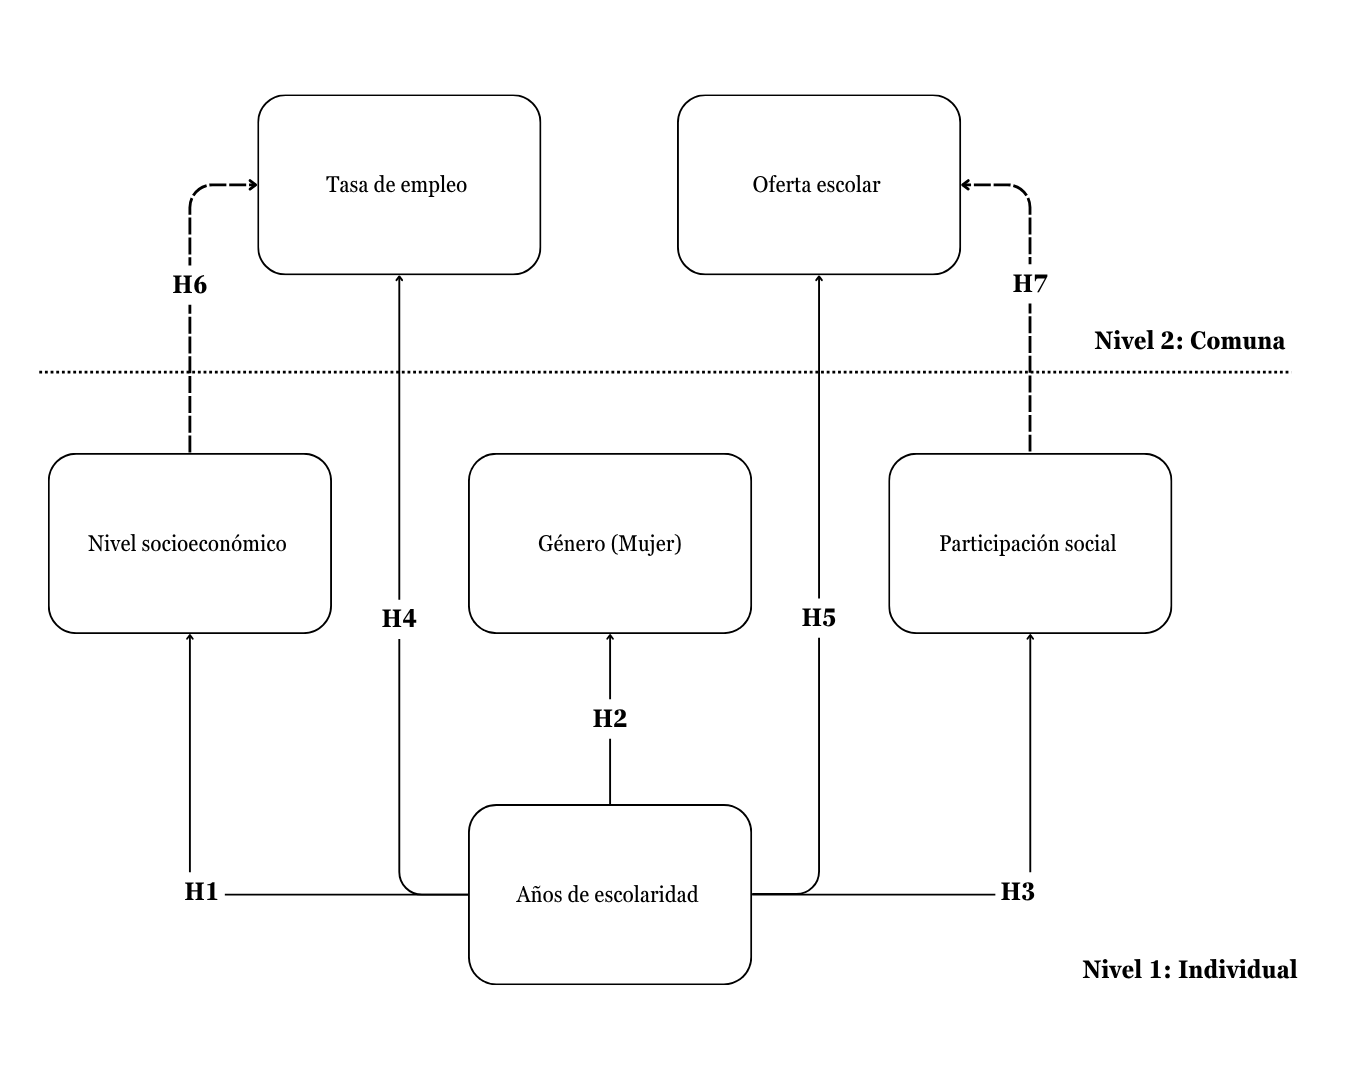
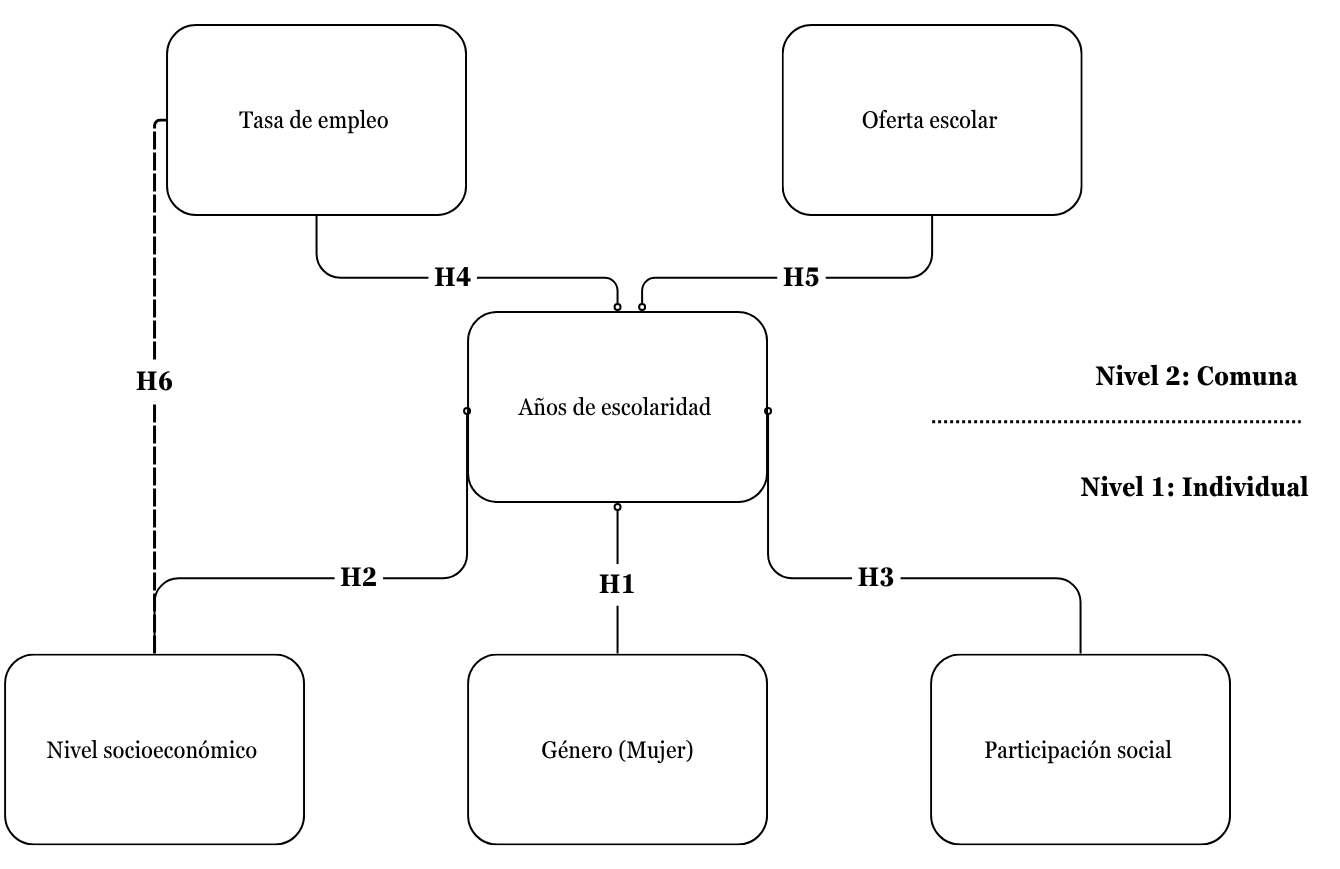
Avance presentacion

diff --git a/presentacion-template.html b/presentacion-template.html
@@ -166,29 +166,53 @@
 <section id="introducción" class="title-slide slide level1 center">
 <h1>Introducción</h1>
 <ul>
-<li class="fragment"><p>[problema, objeto de estudio] Rendimiento en matemáticas decreciente y aumentan brechas por género</p></li>
-<li class="fragment"><p>[factores asociados L1] Nivel socioeconómico y género de estudiantes</p></li>
-<li class="fragment"><p>[factores asociados L2] Nivel socioeconómico de la escuela y composición de género de las salas de clases.</p></li>
+<li class="fragment"><p><strong>Problema, objeto de estudio:</strong></p>
+<div class="line-block">La desigualdad educativa persiste como una de las principales barreras para la movilidad social en Chile, especialmente en la Región Metropolitana de Santiago. A pesar de la expansión del acceso educativo, las diferencias en años de escolaridad continúan reproduciendo desigualdades estructurales entre grupos sociales. Este estudio busca comprender cómo estas diferencias se explican a partir de la interacción entre recursos familiares y condiciones territoriales en el Gran Santiago.</div></li>
 </ul>
 </section>
-<section id="section-1" class="slide level2" data-background-color="#5f5758">
+<section class="slide level2">
+
+<ul>
+<li class="fragment"><p><strong>Factores asociados L1:</strong> Nivel socioeconómico del hogar, Género y Participación social familiar</p>
+<blockquote>
+<p>Estos factores se entienden como recursos o desventajas que configuran las trayectorias escolares desde el origen social, afectando tanto el acceso como la permanencia y el logro educativo.</p>
+</blockquote></li>
+<li class="fragment"><p><strong>Factores asociados L2:</strong> Tasa de empleo comunal y Oferta escolar comunal (densidad de establecimientos)</p>
+<blockquote>
+<p>Ambas variables expresan las condiciones estructurales del territorio, influyendo en las oportunidades educativas disponibles. Se incorporan para analizar cómo el entorno puede amplificar o mitigar las desigualdades preexistentes, más allá de las características individuales.</p>
+</blockquote></li>
+</ul>
+</section>
+<section id="section-1" class="slide level2" data-background-color="#FF0000">
 <h2></h2>
 <div class="center middle">
-<p><span style="font-size: 250%;">¿En qué medida el nivel socioeconómico y el género a nivel individual y de escuela afectan el rendimiento en matemática?</span></p>
+<p><span style="font-size: 230%;">¿En qué medida los distintos factores de socialización —tanto familiares como territoriales— influyen en los años de escolaridad de los habitantes del Gran Santiago?</span></p>
 </div>
 </section></section>
+<section>
 <section id="hipótesis" class="title-slide slide level1 center">
 <h1>Hipótesis:</h1>
-<p>Nivel 1:</p>
-<p><span class="math inline">\(H_1\)</span>:</p>
-<p><span class="math inline">\(H_2\)</span>:</p>
-<p>Nivel 2</p>
-<p><span class="math inline">\(H_3\)</span>:</p>
-<p><span class="math inline">\(H_4\)</span>:</p>
+<p><strong>Nivel 1:</strong></p>
+<p><span class="math inline">\(H_1\)</span>: Las mujeres completan, en promedio, menos años de escolaridad que los hombres.</p>
+<p><span class="math inline">\(H_2\)</span>: Cuanto más alto es el nivel socioeconómico (NSE) del hogar, más años de escolaridad alcanza el estudiante.</p>
+<p><span class="math inline">\(H_3\)</span>: Provenir de un hogar con baja participación social reduce los años de escolaridad frente a hogares activos en redes comunitarias.</p>
+<p><strong>Nivel 2:</strong></p>
+<p><span class="math inline">\(H_4\)</span>: Las comunas con mayor tasa de empleo presentan una escolaridad promedio más alta.</p>
+<p><span class="math inline">\(H_5\)</span>: Las comunas con mayor número de escuelas ofrecen más oportunidades y muestran mayores años de escolaridad.</p>
 </section>
+<section class="slide level2">
 
+<p><strong>Interacción entre niveles:</strong></p>
+<p><span class="math inline">\(H_6\)</span>: El efecto positivo del nivel socioeconómico (NSE) sobre la escolaridad es más intenso en comunas con alta tasa de empleo; un mercado laboral dinámico potencia los recursos familiares.</p>
+<div class="quarto-figure quarto-figure-center">
+<figure>
+<p><img data-src="input/img/Años_de_escolaridad.png" width="638" height="364"></p>
+<figcaption>Modelo teórico (hipótesis)</figcaption>
+</figure>
+</div>
+</section></section>
 <section>
-<section id="metodología" class="title-slide slide level1 center" data-background-color="#5f5758">
+<section id="metodología" class="title-slide slide level1 center" data-background-color="#FF0000">
 <h1>Metodología</h1>
 
 </section>
@@ -197,6 +221,37 @@
 </section>
 <section id="variables" class="slide level2">
 <h2>Variables</h2>
+<div class="columns">
+<div class="column" style="width:70%;">
+<div class="cell">
+<div class="cell-output cell-output-stdout">
+<pre><code>
+Estadísticos descriptivos - Nivel 1 (individual)
+======================================================================
+Statistic         N    Min Pctl(25) Median Mean  Pctl(75) Max St. Dev.
+----------------------------------------------------------------------
+esc             22,776  0     11      12   12.60    16    29    4.11  
+female          22,776  0     0       1    0.54     1      1    0.50  
+nse_numerico    22,776  1     2       5    4.56     6      7    2.01  
+part_social_num 22,706  0     0       0    0.13     0      1    0.33  
+----------------------------------------------------------------------</code></pre>
+</div>
+</div>
+</div><div class="column" style="width:30%;">
+
+</div><div class="cell">
+<div class="cell-output cell-output-stdout">
+<pre><code>
+Estadísticos descriptivos - Nivel 2 (comunal)
+================================================================
+Statistic   N  Min  Pctl(25) Median Mean  Pctl(75) Max  St. Dev.
+----------------------------------------------------------------
+n_escuelas  32  19    39.5     58   62.88   68.2   199   39.89  
+prop_empleo 32 0.46   0.51    0.54  0.55    0.58   0.70   0.06  
+----------------------------------------------------------------</code></pre>
+</div>
+</div>
+</div>
 <p>(incluir tablas univariados por nivel)</p>
 </section>
 <section id="métodos" class="slide level2">
@@ -287,7 +342,7 @@
 </div>
 </section></section>
 <section>
-<section id="resultados" class="title-slide slide level1 center" data-background-color="#5f5758">
+<section id="resultados" class="title-slide slide level1 center" data-background-color="#FF0000">
 <h1>Resultados</h1>
 
 </section>
@@ -298,7 +353,7 @@
 <div class="cell-output-display">
 <div>
 <figure>
-<p><img data-src="presentacion-template_files/figure-revealjs/unnamed-chunk-2-1.png" width="960"></p>
+<p><img data-src="presentacion-template_files/figure-revealjs/Scatterplot-1.png" width="960"></p>
 </figure>
 </div>
 </div>
@@ -311,7 +366,7 @@
 <div class="cell-output-display">
 <div>
 <figure>
-<p><img data-src="presentacion-template_files/figure-revealjs/unnamed-chunk-3-1.png" width="960"></p>
+<p><img data-src="presentacion-template_files/figure-revealjs/Boxplot-1.png" width="960"></p>
 </figure>
 </div>
 </div>
@@ -663,7 +718,7 @@ Likelihood-ratio test
 <div class="cell-output-display">
 <div>
 <figure>
-<p><img data-src="presentacion-template_files/figure-revealjs/unnamed-chunk-5-1.png" width="960"></p>
+<p><img data-src="presentacion-template_files/figure-revealjs/Interacción-1.png" width="960"></p>
 </figure>
 </div>
 </div>
@@ -672,8 +727,21 @@ Likelihood-ratio test
 <p>La interacción muestra que…</p>
 </div></div>
 </section></section>
+<section id="observaciones-influyentes" class="title-slide slide level1 center">
+<h1><strong>Observaciones influyentes</strong></h1>
+<div class="cell">
+<div class="cell-output-display">
+<div>
+<figure>
+<p><img data-src="presentacion-template_files/figure-revealjs/Observaciones%20influyentes-1.png" width="960"></p>
+</figure>
+</div>
+</div>
+</div>
+</section>
+
 <section>
-<section id="conclusiones" class="title-slide slide level1 center" data-background-color="black">
+<section id="conclusiones" class="title-slide slide level1 center" data-background-color="#FF0000">
 <h1>Conclusiones</h1>
 <div>
 <ul>
